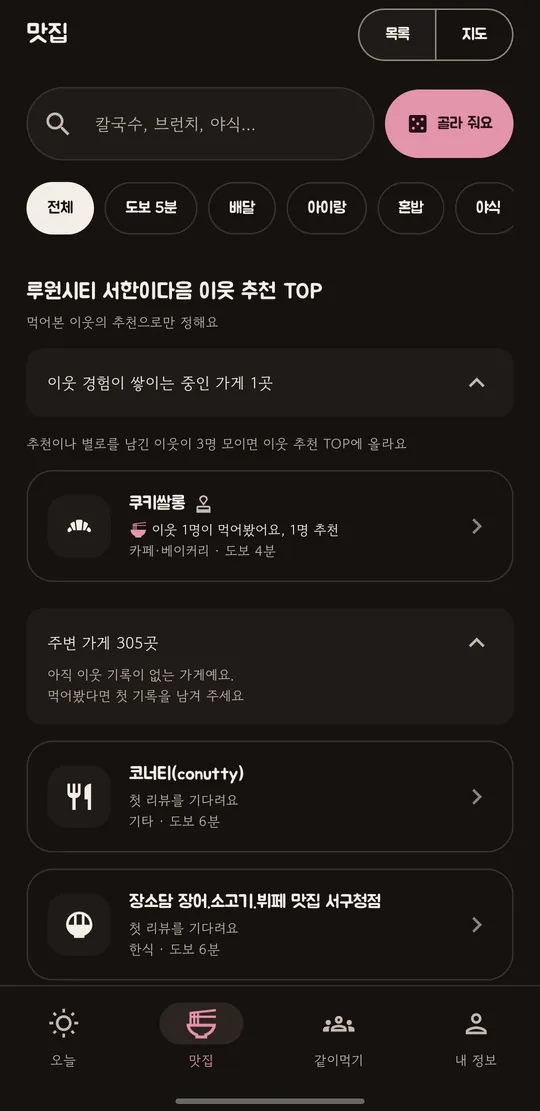
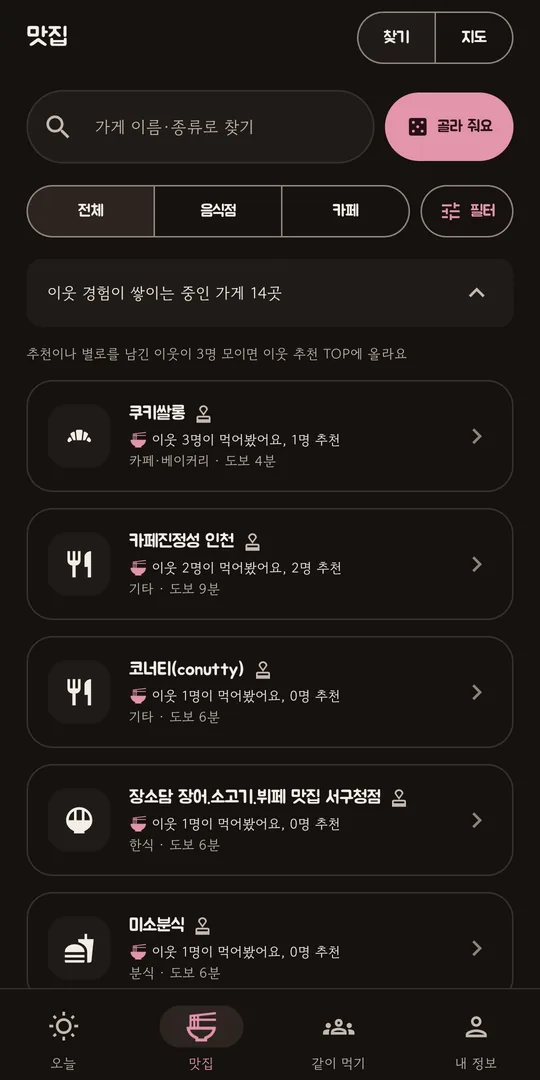
홈페이지: 새 앱 화면 6장으로 교체, 수도권 이용 가능 문구 (서해구 문구 제거) (#23)
Claude-Session: https://claude.ai/code/session_013jA894Bt2MzmHHFVgGmZUc

diff --git a/index.html b/index.html
@@ -39,12 +39,12 @@
 
 <section aria-label="앱 화면">
   <div class="shots">
-    <figure class="shot" style="margin:0"><img src="img/shot-list.webp" alt="이웃 추천 TOP 목록 화면" width="540" height="1111" loading="lazy"><span>이웃이 먹어본 곳만 순위에</span></figure>
-    <figure class="shot" style="margin:0"><img src="img/shot-roulette.webp" alt="오늘 뭐 먹지 룰렛 화면" width="540" height="1111" loading="lazy"><span>오늘 뭐 먹지? 기웃이가 골라 줘요</span></figure>
-    <figure class="shot" style="margin:0"><img src="img/shot-map.webp" alt="단지 둘레 1km 맛집 지도 화면" width="540" height="1100" loading="lazy"><span>단지 둘레 1km를 한눈에</span></figure>
-    <figure class="shot" style="margin:0"><img src="img/shot-home.webp" alt="오늘 우리 동네 소식 화면" width="540" height="1087" loading="lazy"><span>오늘 우리 동네 소식</span></figure>
-    <figure class="shot" style="margin:0"><img src="img/shot-meetups.webp" alt="같이 먹기 모집 화면" width="540" height="1100" loading="lazy"><span>배달비는 나누고 같이 먹고</span></figure>
-    <figure class="shot" style="margin:0"><img src="img/shot-my.webp" alt="방문 도장과 기웃이 배지 화면" width="540" height="1100" loading="lazy"><span>도장과 배지 모으기</span></figure>
+    <figure class="shot" style="margin:0"><img src="img/shot-list.webp" alt="이웃이 먹어본 가게 목록 화면" width="540" height="1080" loading="lazy"><span>이웃이 먹어본 가게를 모아 봐요</span></figure>
+    <figure class="shot" style="margin:0"><img src="img/shot-detail.webp" alt="가게 상세와 이웃 추천 태그·리뷰 화면" width="540" height="1080" loading="lazy"><span>이웃의 추천과 리뷰를 한곳에서</span></figure>
+    <figure class="shot" style="margin:0"><img src="img/shot-review.webp" alt="추천해요·별로예요와 태그를 고르는 리뷰 화면" width="540" height="1080" loading="lazy"><span>추천, 별로, 태그까지 가볍게</span></figure>
+    <figure class="shot" style="margin:0"><img src="img/shot-today.webp" alt="오늘 우리 동네 소식 화면" width="540" height="1080" loading="lazy"><span>오늘 우리 동네 소식</span></figure>
+    <figure class="shot" style="margin:0"><img src="img/shot-stamps.webp" alt="방문 도장판 화면" width="540" height="1080" loading="lazy"><span>다녀온 곳마다 도장이 쌓여요</span></figure>
+    <figure class="shot" style="margin:0"><img src="img/shot-me.webp" alt="내 정보와 기웃이 스티커 화면" width="540" height="1080" loading="lazy"><span>기웃이 스티커 모으기</span></figure>
   </div>
 </section>
 
@@ -64,7 +64,7 @@
 
 <section id="area">
   <h2>어디에서 쓸 수 있어요?</h2>
-  <p class="sub">지금은 <b>인천 서해구 일부 단지</b>에서 시작했고, <b>서울·경기·인천 수도권</b>으로 차례차례 넓혀 가고 있어요.</p>
+  <p class="sub"><b>서울·경기·인천 수도권</b>의 아파트에서 이웃과 함께 쓸 수 있어요. 다른 지역은 차례차례 열어 가고 있어요.</p>
   <div class="grid">
     <div class="card"><h3>우리 아파트가 아직 없어요</h3><p>앱에서 우리 아파트를 찾아 <b>서비스 시작 신청</b>을 남겨 주세요. 신청이 많은 곳부터 열어요.</p></div>
     <div class="card"><h3>같은 단지 이웃끼리만</h3><p>거주 아파트를 인증한 이웃의 글만 서로 보여서, 우리 동네 이야기에 집중할 수 있어요.</p></div>
